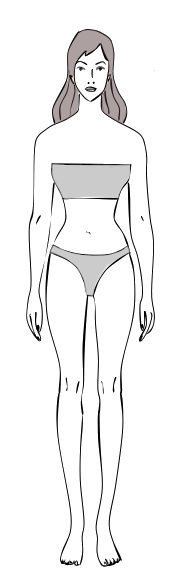
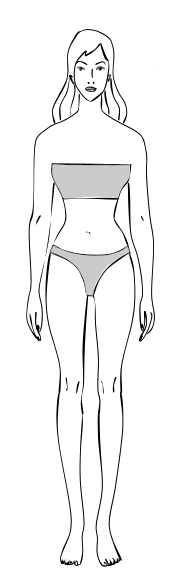
manichini donna colorati

Changed region(s): [[0.2778, 0.0309, 0.6944, 0.2161]]

diff --git a/camerino.html b/camerino.html
@@ -168,9 +168,9 @@
         <div id="zona-borsa" class="zona"></div>
         <div id="zona-sciarpa" class="zona"></div> -->
         <div  class="color-button" style="margin-top: -50px;">
-          <button class="color-btn rosa" onclick="changeMannequinColor('rosa')"></button>
-          <button class="color-btn marrone" onclick="changeMannequinColor('marrone')"></button>
-          <button class="color-btn nero" onclick="changeMannequinColor('nero')"></button>
+          <button class="color-btn rosa" onclick="cambiaColoreManichino('donna', 'rosa')"></button>
+          <button class="color-btn marrone" onclick="cambiaColoreManichino('donna', 'marrone')"></button>
+          <button class="color-btn nero" onclick="cambiaColoreManichino('donna', 'nero')"></button>
         </div>
       </div>
 

diff --git a/camerino.css b/camerino.css
@@ -318,7 +318,7 @@ body {
 }
 
 .rosa   { background-color: #fabda2; }
-.marrone  { background-color: #bf886f; }
+.marrone  { background-color: #e1a991; }
 .nero { background-color: #bf886f; }
 
 .color-btn.attivo {
